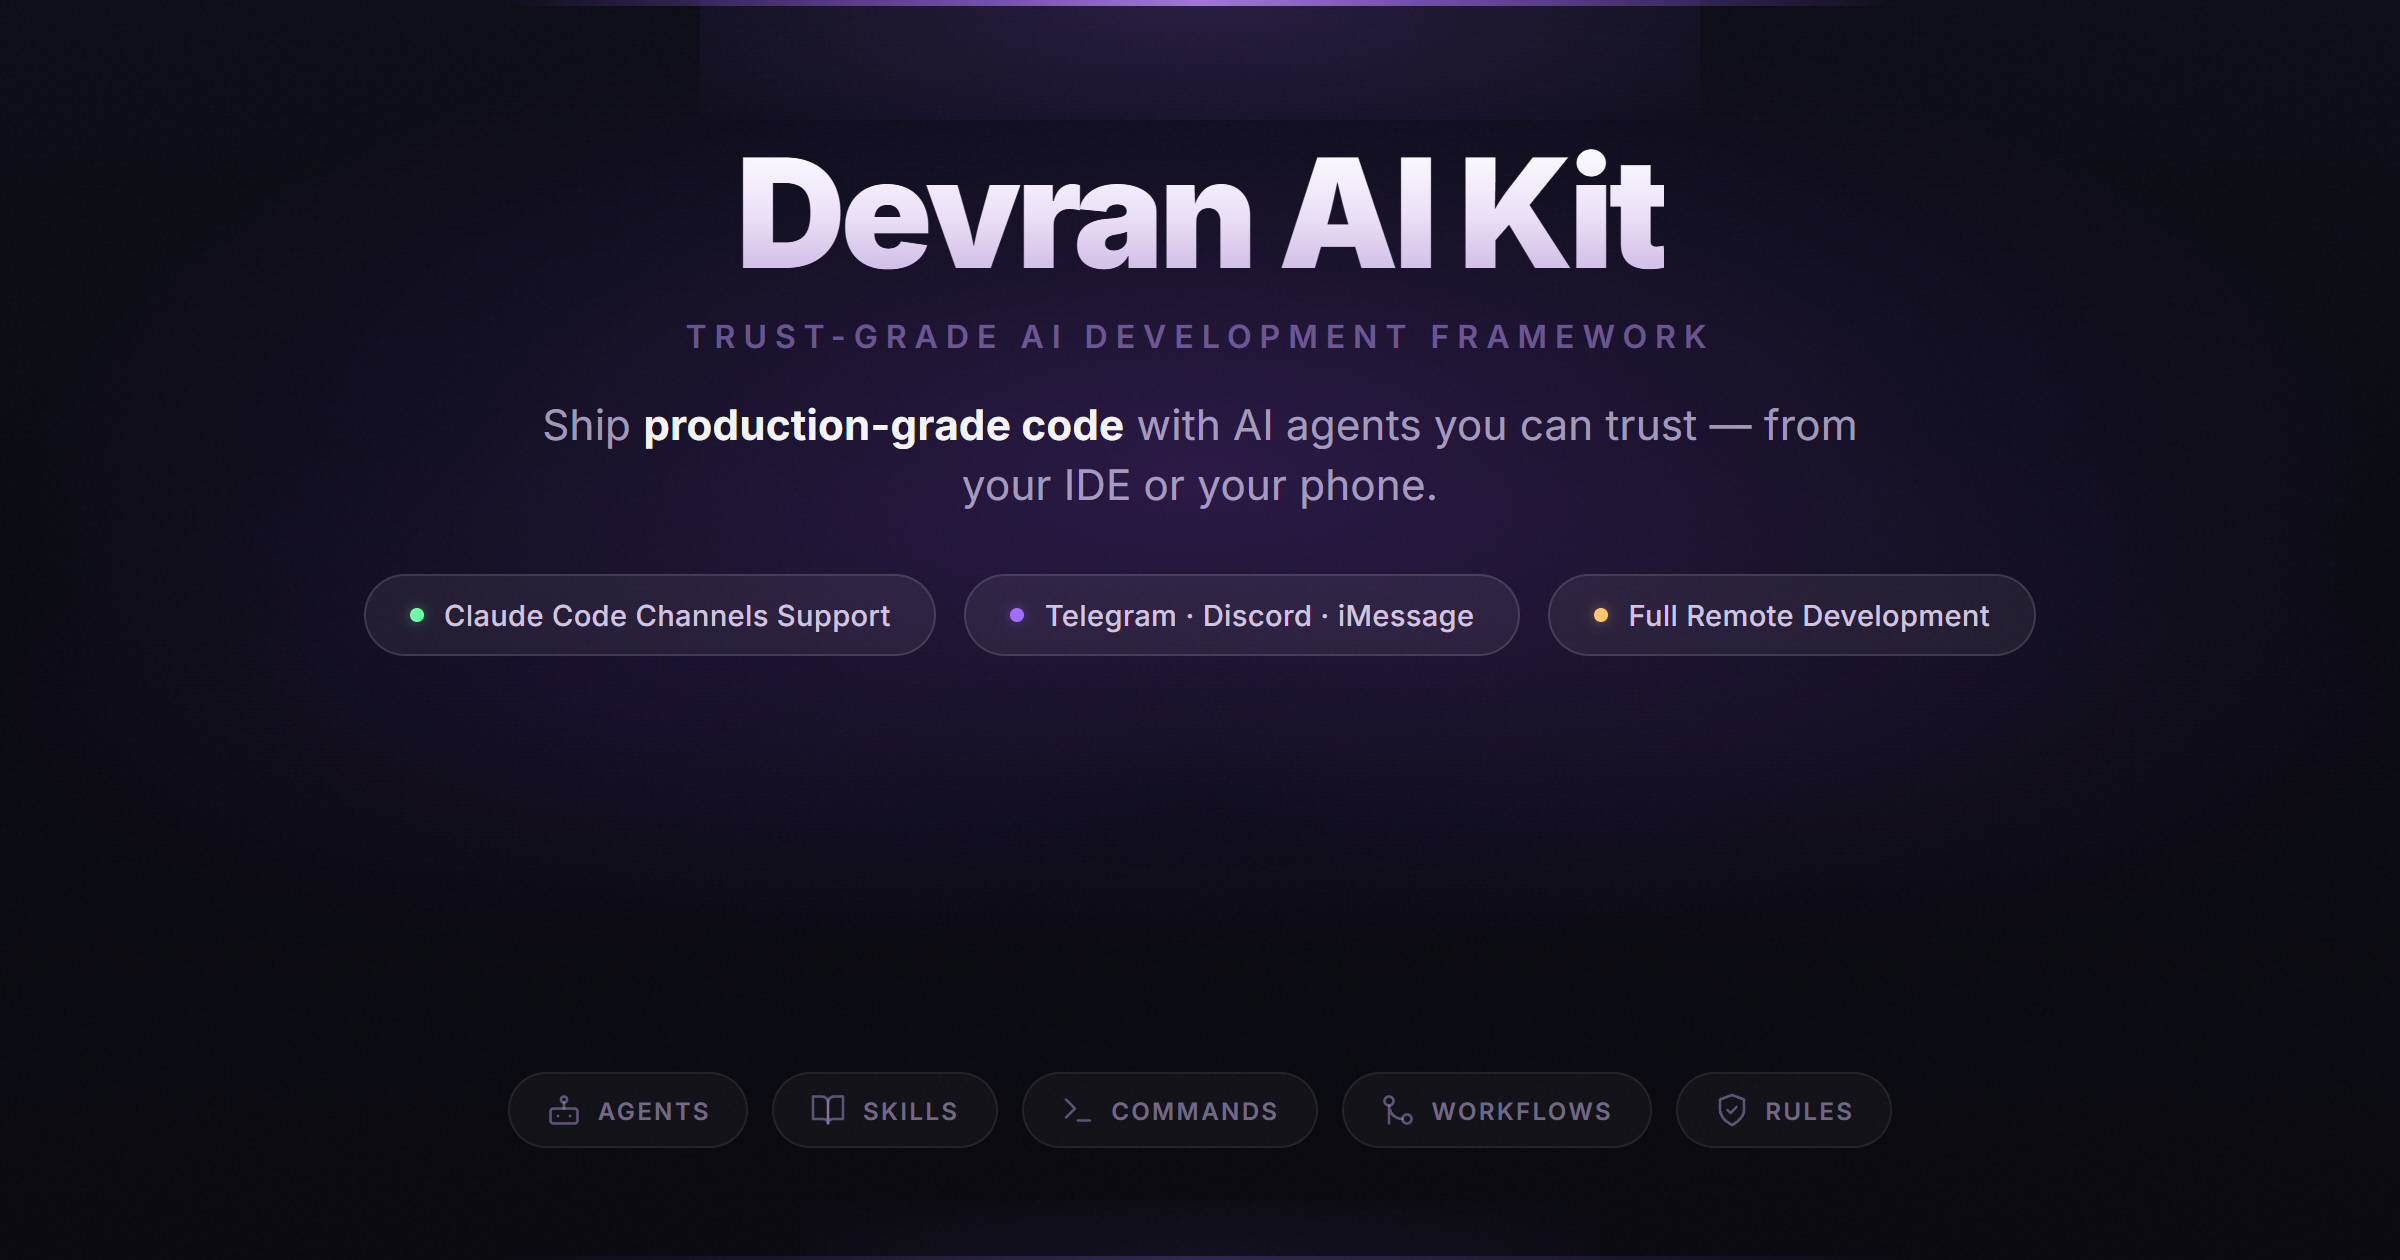
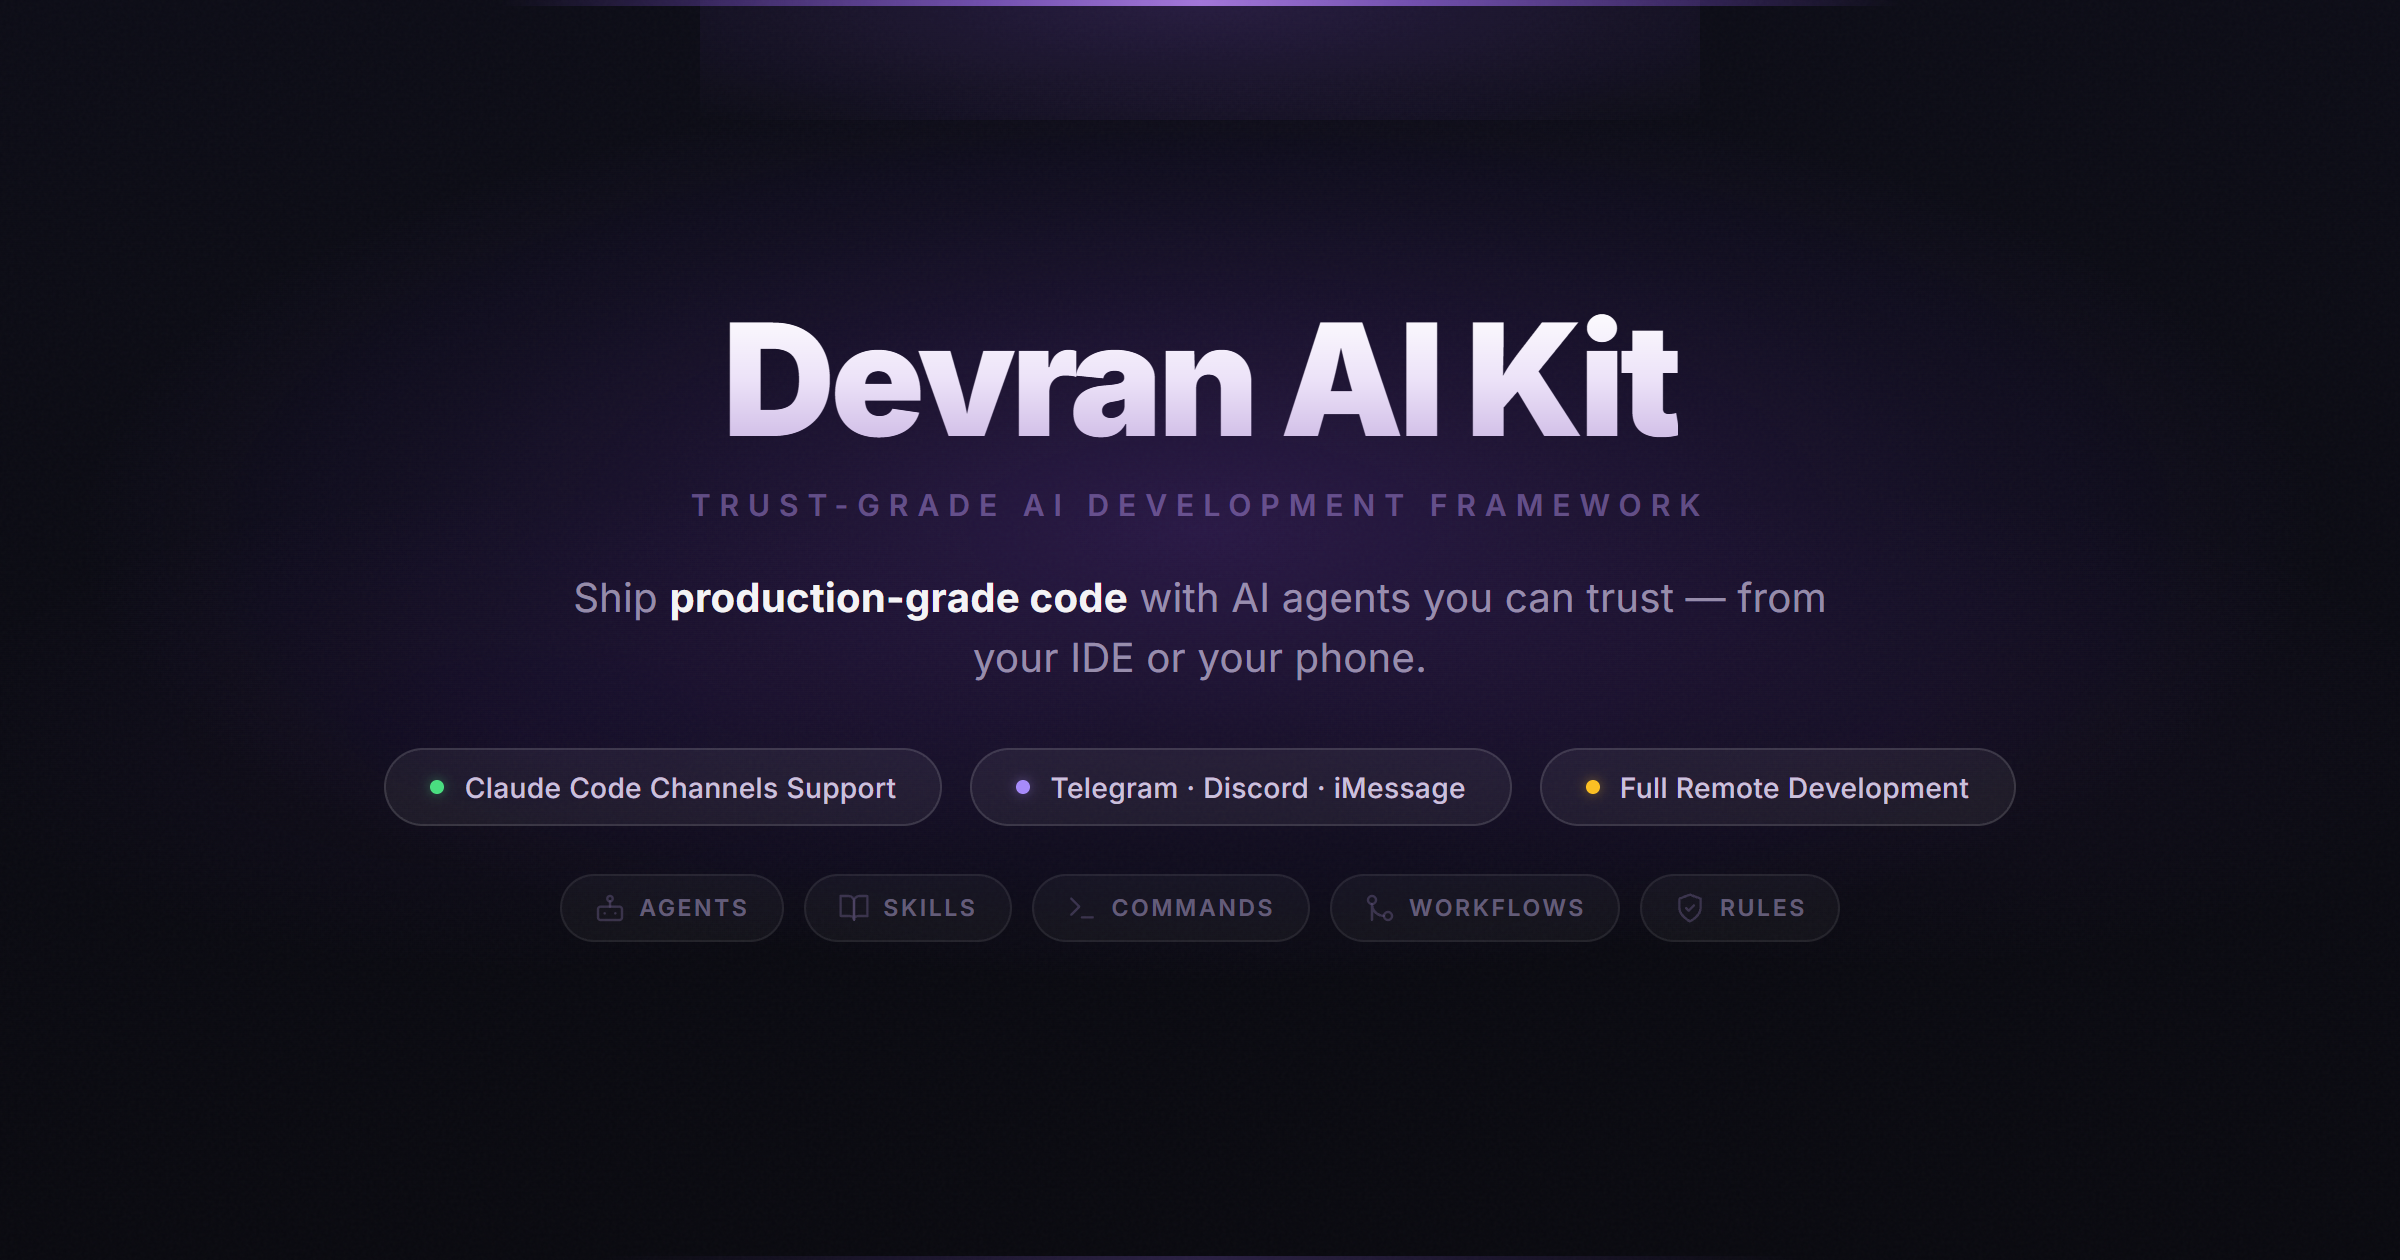
fix: OG image tight layout — eliminate void between content sections
Replace space-between layout with centered single-block stack.
All content flows as one cohesive unit with controlled gaps:
Title (78px) → Subtitle (14px gap) → Tagline (22px) →
Channel pills (30px) → Capability pills (24px).
No more empty void between feature pills and bottom row.

diff --git a/scripts/og-image.html b/scripts/og-image.html
@@ -8,7 +8,7 @@
 
   * { margin: 0; padding: 0; box-sizing: border-box; }
 
-  body {
+  html, body {
     width: 1200px;
     height: 630px;
     overflow: hidden;
@@ -17,28 +17,24 @@
     color: #fff;
   }
 
-  .container {
+  .canvas {
     width: 1200px;
     height: 630px;
     position: relative;
     display: flex;
     flex-direction: column;
     align-items: center;
-    /* P1-FIX: Optical center — content sits slightly above true center */
-    padding-top: 68px;
-    padding-bottom: 52px;
-    justify-content: space-between;
-    gap: 0;
+    justify-content: center;
     background:
-      radial-gradient(ellipse 70% 55% at 50% 38%, rgba(120, 60, 200, 0.28) 0%, rgba(80, 40, 160, 0.10) 45%, transparent 70%),
-      radial-gradient(ellipse 50% 40% at 25% 55%, rgba(100, 40, 180, 0.08) 0%, transparent 55%),
-      radial-gradient(ellipse 50% 40% at 75% 55%, rgba(140, 60, 220, 0.06) 0%, transparent 55%),
-      linear-gradient(180deg, #0c0c16 0%, #0a0a12 45%, #08080e 100%);
+      radial-gradient(ellipse 65% 50% at 50% 42%, rgba(120, 60, 200, 0.28) 0%, rgba(80, 40, 160, 0.10) 50%, transparent 72%),
+      radial-gradient(ellipse 45% 35% at 22% 58%, rgba(100, 40, 180, 0.07) 0%, transparent 55%),
+      radial-gradient(ellipse 45% 35% at 78% 58%, rgba(140, 60, 220, 0.05) 0%, transparent 55%),
+      linear-gradient(180deg, #0c0c16 0%, #09090f 100%);
     overflow: hidden;
   }
 
-  /* Subtle grain overlay — Netflix/Vercel texture technique */
-  .container::before {
+  /* Grain — Netflix/Vercel signature texture */
+  .canvas::before {
     content: '';
     position: absolute;
     inset: 0;
@@ -47,50 +43,42 @@
     z-index: 1;
   }
 
-  /* P3-FIX: Top glow line — 3px, wider spread, stronger bloom */
-  .glow-line {
+  /* Top glow — 3px, wide bloom */
+  .top-glow {
     position: absolute;
-    top: 0;
-    left: 50%;
-    transform: translateX(-50%);
-    width: 700px;
-    height: 3px;
-    background: linear-gradient(90deg,
-      transparent 0%,
-      rgba(140, 90, 235, 0.3) 15%,
-      rgba(170, 120, 255, 0.6) 35%,
-      rgba(200, 150, 255, 0.8) 50%,
-      rgba(170, 120, 255, 0.6) 65%,
-      rgba(140, 90, 235, 0.3) 85%,
-      transparent 100%
-    );
+    top: 0; left: 50%; transform: translateX(-50%);
+    width: 700px; height: 3px;
+    background: linear-gradient(90deg, transparent 0%, rgba(140,90,235,0.3) 15%, rgba(170,120,255,0.6) 35%, rgba(200,150,255,0.8) 50%, rgba(170,120,255,0.6) 65%, rgba(140,90,235,0.3) 85%, transparent 100%);
     z-index: 4;
   }
-
-  .glow-line::after {
-    content: '';
-    position: absolute;
-    top: 0;
-    left: 50%;
-    transform: translateX(-50%);
-    width: 500px;
-    height: 60px;
-    background: radial-gradient(ellipse at center top, rgba(160, 100, 255, 0.18) 0%, transparent 100%);
+  .top-glow::after {
+    content: ''; position: absolute; top: 0; left: 50%; transform: translateX(-50%);
+    width: 500px; height: 60px;
+    background: radial-gradient(ellipse at center top, rgba(160,100,255,0.18) 0%, transparent 100%);
   }
 
-  /* Main content stack */
-  .content {
+  /* Bottom glow */
+  .bottom-glow {
+    position: absolute;
+    bottom: 0; left: 50%; transform: translateX(-50%);
+    width: 600px; height: 2px;
+    background: linear-gradient(90deg, transparent 0%, rgba(120,80,200,0.15) 25%, rgba(140,100,220,0.25) 50%, rgba(120,80,200,0.15) 75%, transparent 100%);
+    z-index: 2;
+  }
+
+  /* ===== CONTENT STACK — single tight block ===== */
+  .stack {
     position: relative;
     z-index: 3;
     display: flex;
     flex-direction: column;
     align-items: center;
-    gap: 0;
+    /* Optical center: nudge 8px up from true center */
+    margin-top: -8px;
   }
 
-  /* Hero title */
   .title {
-    font-size: 76px;
+    font-size: 78px;
     font-weight: 900;
     letter-spacing: -2.5px;
     line-height: 1;
@@ -100,138 +88,97 @@
     background-clip: text;
   }
 
-  /* P0-FIX: Trust-Grade subtitle — USP visible in first 3 seconds */
   .subtitle {
     margin-top: 14px;
-    font-size: 16px;
+    font-size: 15px;
     font-weight: 600;
-    letter-spacing: 4px;
+    letter-spacing: 4.5px;
     text-transform: uppercase;
-    color: rgba(170, 140, 220, 0.55);
+    color: rgba(165, 135, 215, 0.50);
   }
 
-  /* Tagline */
   .tagline {
-    margin-top: 20px;
-    font-size: 21px;
+    margin-top: 22px;
+    font-size: 20px;
     font-weight: 400;
-    color: rgba(220, 210, 240, 0.70);
+    color: rgba(215, 205, 235, 0.65);
     letter-spacing: 0.15px;
     text-align: center;
-    max-width: 680px;
-    line-height: 1.45;
+    max-width: 660px;
+    line-height: 1.5;
   }
-
   .tagline strong {
     color: rgba(255, 255, 255, 0.95);
     font-weight: 700;
   }
 
-  /* Feature pills row */
-  .features {
+  /* Channel labels — 3 pills */
+  .channels {
     display: flex;
     gap: 14px;
-    margin-top: 28px;
-    flex-wrap: wrap;
-    justify-content: center;
+    margin-top: 30px;
   }
 
-  .feature {
+  .channel {
     display: flex;
     align-items: center;
     gap: 10px;
-    padding: 11px 22px;
+    padding: 10px 22px;
     border-radius: 100px;
-    /* P2-FIX: Increased contrast — bg 0.04→0.06, border 0.08→0.12 */
-    background: rgba(255, 255, 255, 0.06);
-    border: 1px solid rgba(255, 255, 255, 0.12);
-    font-size: 14.5px;
+    background: rgba(255,255,255,0.055);
+    border: 1px solid rgba(255,255,255,0.12);
+    font-size: 14px;
     font-weight: 500;
-    color: rgba(230, 220, 245, 0.88);
+    color: rgba(225, 215, 242, 0.88);
     letter-spacing: 0.2px;
   }
 
-  .feature .dot {
-    width: 7px;
-    height: 7px;
+  .channel .dot {
+    width: 7px; height: 7px;
     border-radius: 50%;
     flex-shrink: 0;
   }
+  .dot-green  { background: #4ade80; box-shadow: 0 0 6px rgba(74,222,128,0.45); }
+  .dot-purple { background: #a78bfa; box-shadow: 0 0 6px rgba(167,139,250,0.45); }
+  .dot-amber  { background: #fbbf24; box-shadow: 0 0 6px rgba(251,191,36,0.45); }
 
-  .dot.purple { background: #a06eff; box-shadow: 0 0 6px rgba(160, 110, 255, 0.4); }
-  .dot.blue   { background: #6ea0ff; box-shadow: 0 0 6px rgba(110, 160, 255, 0.4); }
-  .dot.green  { background: #6effa0; box-shadow: 0 0 6px rgba(110, 255, 160, 0.4); }
-  .dot.amber  { background: #ffc46e; box-shadow: 0 0 6px rgba(255, 196, 110, 0.4); }
-
-  /* P0+P1-FIX: Capability row — unified pill design, monochrome SVG icons */
-  .capabilities {
-    position: relative;
-    z-index: 3;
+  /* Capability row — unified pill design */
+  .caps {
     display: flex;
-    gap: 12px;
-    margin-bottom: 4px;
+    gap: 10px;
+    margin-top: 24px;
   }
 
   .cap {
     display: flex;
     align-items: center;
-    gap: 8px;
-    padding: 9px 18px;
+    gap: 7px;
+    padding: 8px 16px;
     border-radius: 100px;
-    /* Same design language as feature pills — cohesive system */
-    background: rgba(255, 255, 255, 0.03);
-    border: 1px solid rgba(255, 255, 255, 0.07);
+    background: rgba(255,255,255,0.03);
+    border: 1px solid rgba(255,255,255,0.07);
   }
 
   .cap svg {
-    width: 18px;
-    height: 18px;
+    width: 16px; height: 16px;
     flex-shrink: 0;
+    opacity: 0.45;
   }
 
   .cap-label {
-    font-size: 12px;
+    font-size: 11.5px;
     font-weight: 600;
     text-transform: uppercase;
-    letter-spacing: 1.2px;
-    color: rgba(190, 175, 220, 0.55);
-  }
-
-  /* Bottom border glow — wider, matches top glow language */
-  .bottom-glow {
-    position: absolute;
-    bottom: 0;
-    left: 50%;
-    transform: translateX(-50%);
-    width: 700px;
-    height: 2px;
-    background: linear-gradient(90deg,
-      transparent 0%,
-      rgba(120, 80, 200, 0.15) 20%,
-      rgba(140, 100, 220, 0.25) 50%,
-      rgba(120, 80, 200, 0.15) 80%,
-      transparent 100%
-    );
-    z-index: 2;
-  }
-
-  .bottom-glow::after {
-    content: '';
-    position: absolute;
-    bottom: 0;
-    left: 50%;
-    transform: translateX(-50%);
-    width: 400px;
-    height: 30px;
-    background: radial-gradient(ellipse at center bottom, rgba(140, 100, 220, 0.08) 0%, transparent 100%);
+    letter-spacing: 1.3px;
+    color: rgba(185, 170, 215, 0.48);
   }
 </style>
 </head>
 <body>
-  <div class="container">
-    <div class="glow-line"></div>
+  <div class="canvas">
+    <div class="top-glow"></div>
 
-    <div class="content">
+    <div class="stack">
       <div class="title">Devran AI Kit</div>
       <div class="subtitle">Trust-Grade AI Development Framework</div>
 
@@ -239,58 +186,52 @@
         Ship <strong>production-grade code</strong> with AI agents you can trust — from your IDE or your phone.
       </div>
 
-      <div class="features">
-        <div class="feature">
-          <span class="dot green"></span>
+      <div class="channels">
+        <div class="channel">
+          <span class="dot dot-green"></span>
           Claude Code Channels Support
         </div>
-        <div class="feature">
-          <span class="dot purple"></span>
+        <div class="channel">
+          <span class="dot dot-purple"></span>
           Telegram · Discord · iMessage
         </div>
-        <div class="feature">
-          <span class="dot amber"></span>
+        <div class="channel">
+          <span class="dot dot-amber"></span>
           Full Remote Development
         </div>
       </div>
-    </div>
 
-    <!-- P0: Monochrome SVG icons (Lucide-inspired) — cross-platform consistent -->
-    <div class="capabilities">
-      <div class="cap">
-        <!-- Bot/Agent icon -->
-        <svg viewBox="0 0 24 24" fill="none" stroke="rgba(170,145,215,0.5)" stroke-width="1.8" stroke-linecap="round" stroke-linejoin="round">
-          <rect x="3" y="11" width="18" height="10" rx="2"/><circle cx="12" cy="5" r="2"/><path d="M12 7v4"/><line x1="8" y1="16" x2="8" y2="16.01"/><line x1="16" y1="16" x2="16" y2="16.01"/>
-        </svg>
-        <span class="cap-label">Agents</span>
-      </div>
-      <div class="cap">
-        <!-- BookOpen/Skills icon -->
-        <svg viewBox="0 0 24 24" fill="none" stroke="rgba(170,145,215,0.5)" stroke-width="1.8" stroke-linecap="round" stroke-linejoin="round">
-          <path d="M2 3h6a4 4 0 0 1 4 4v14a3 3 0 0 0-3-3H2z"/><path d="M22 3h-6a4 4 0 0 0-4 4v14a3 3 0 0 1 3-3h7z"/>
-        </svg>
-        <span class="cap-label">Skills</span>
-      </div>
-      <div class="cap">
-        <!-- Terminal/Commands icon -->
-        <svg viewBox="0 0 24 24" fill="none" stroke="rgba(170,145,215,0.5)" stroke-width="1.8" stroke-linecap="round" stroke-linejoin="round">
-          <polyline points="4 17 10 11 4 5"/><line x1="12" y1="19" x2="20" y2="19"/>
-        </svg>
-        <span class="cap-label">Commands</span>
-      </div>
-      <div class="cap">
-        <!-- GitBranch/Workflows icon -->
-        <svg viewBox="0 0 24 24" fill="none" stroke="rgba(170,145,215,0.5)" stroke-width="1.8" stroke-linecap="round" stroke-linejoin="round">
-          <circle cx="18" cy="18" r="3"/><circle cx="6" cy="6" r="3"/><path d="M6 21V9a9 9 0 0 0 9 9"/>
-        </svg>
-        <span class="cap-label">Workflows</span>
-      </div>
-      <div class="cap">
-        <!-- Shield/Rules icon -->
-        <svg viewBox="0 0 24 24" fill="none" stroke="rgba(170,145,215,0.5)" stroke-width="1.8" stroke-linecap="round" stroke-linejoin="round">
-          <path d="M12 22s8-4 8-10V5l-8-3-8 3v7c0 6 8 10 8 10z"/><polyline points="9 12 11 14 15 10"/>
-        </svg>
-        <span class="cap-label">Rules</span>
+      <div class="caps">
+        <div class="cap">
+          <svg viewBox="0 0 24 24" fill="none" stroke="rgba(170,145,215,0.55)" stroke-width="1.8" stroke-linecap="round" stroke-linejoin="round">
+            <rect x="3" y="11" width="18" height="10" rx="2"/><circle cx="12" cy="5" r="2"/><path d="M12 7v4"/><line x1="8" y1="16" x2="8" y2="16.01"/><line x1="16" y1="16" x2="16" y2="16.01"/>
+          </svg>
+          <span class="cap-label">Agents</span>
+        </div>
+        <div class="cap">
+          <svg viewBox="0 0 24 24" fill="none" stroke="rgba(170,145,215,0.55)" stroke-width="1.8" stroke-linecap="round" stroke-linejoin="round">
+            <path d="M2 3h6a4 4 0 0 1 4 4v14a3 3 0 0 0-3-3H2z"/><path d="M22 3h-6a4 4 0 0 0-4 4v14a3 3 0 0 1 3-3h7z"/>
+          </svg>
+          <span class="cap-label">Skills</span>
+        </div>
+        <div class="cap">
+          <svg viewBox="0 0 24 24" fill="none" stroke="rgba(170,145,215,0.55)" stroke-width="1.8" stroke-linecap="round" stroke-linejoin="round">
+            <polyline points="4 17 10 11 4 5"/><line x1="12" y1="19" x2="20" y2="19"/>
+          </svg>
+          <span class="cap-label">Commands</span>
+        </div>
+        <div class="cap">
+          <svg viewBox="0 0 24 24" fill="none" stroke="rgba(170,145,215,0.55)" stroke-width="1.8" stroke-linecap="round" stroke-linejoin="round">
+            <circle cx="18" cy="18" r="3"/><circle cx="6" cy="6" r="3"/><path d="M6 21V9a9 9 0 0 0 9 9"/>
+          </svg>
+          <span class="cap-label">Workflows</span>
+        </div>
+        <div class="cap">
+          <svg viewBox="0 0 24 24" fill="none" stroke="rgba(170,145,215,0.55)" stroke-width="1.8" stroke-linecap="round" stroke-linejoin="round">
+            <path d="M12 22s8-4 8-10V5l-8-3-8 3v7c0 6 8 10 8 10z"/><polyline points="9 12 11 14 15 10"/>
+          </svg>
+          <span class="cap-label">Rules</span>
+        </div>
       </div>
     </div>
 
